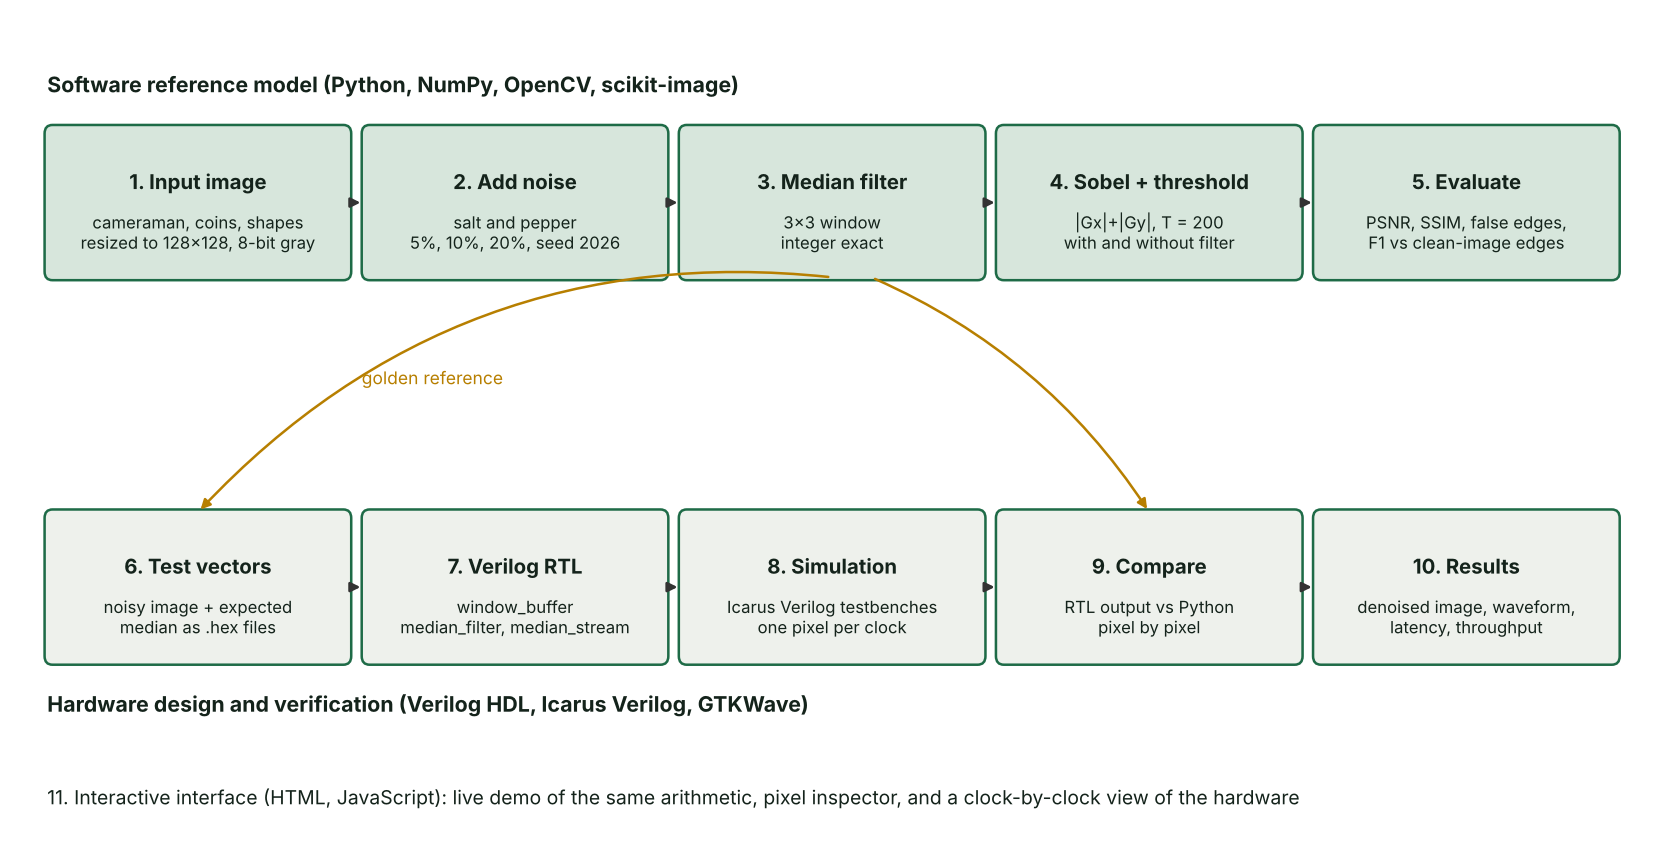
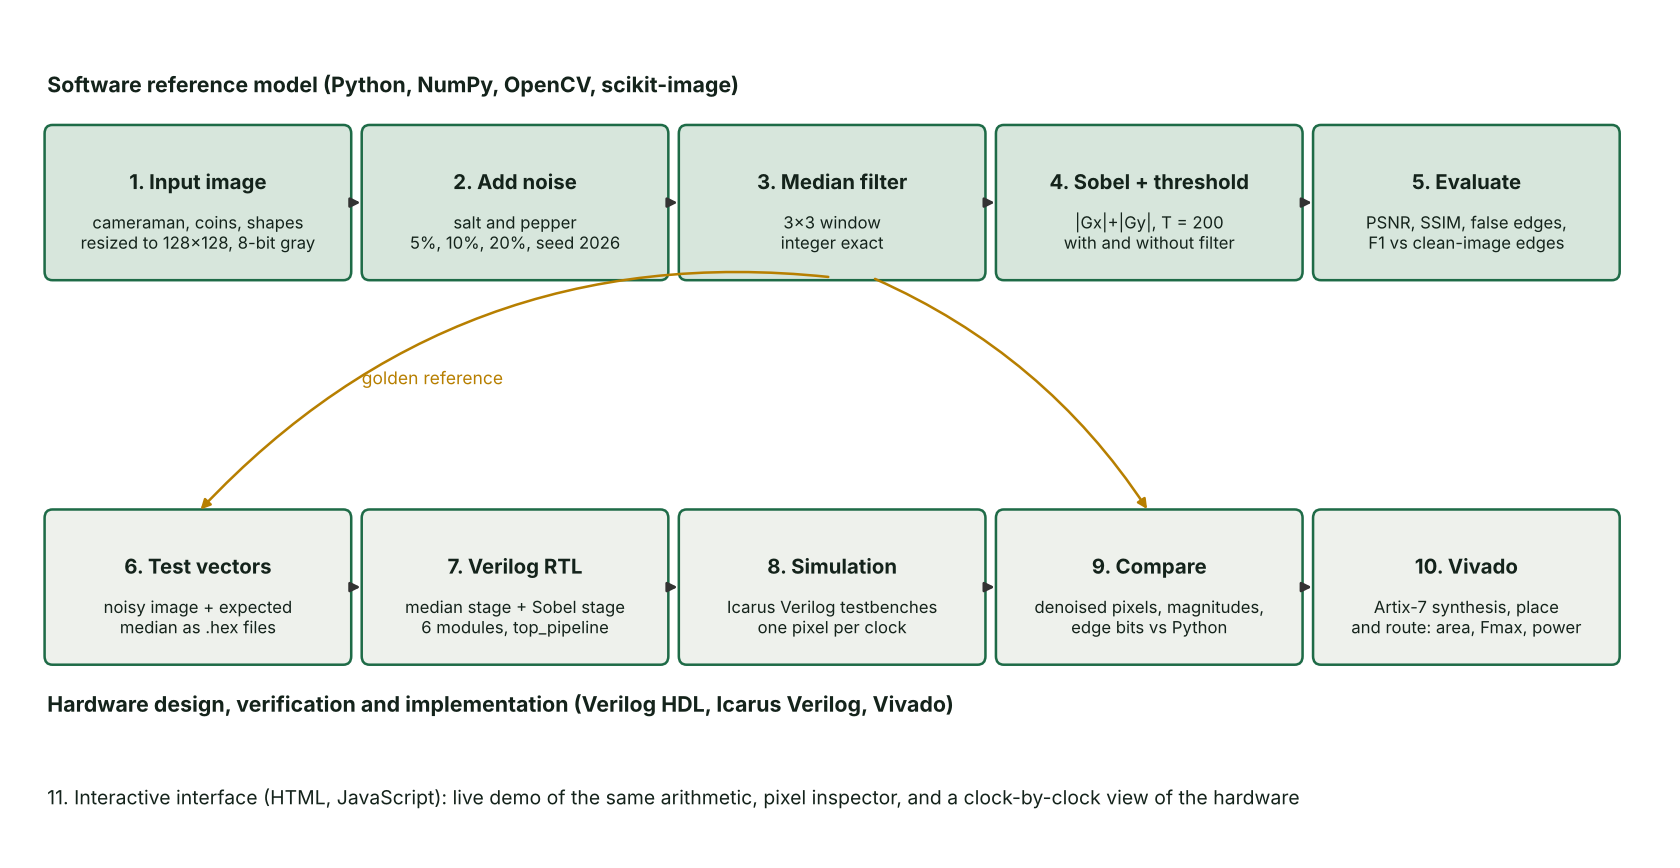
Report figures: full pipeline architecture, Sobel datapath, full-pipeline waveform
Claude-Session: https://claude.ai/code/session_01JJGAHpZk1C7UGj5k1Tqkss

diff --git a/python/draw_synopsis_figures.py b/python/draw_synopsis_figures.py
@@ -1,8 +1,13 @@
 """
-draw_synopsis_figures.py - Figures for the project synopsis (docs/figures/).
-  methodology_flow.png  : end-to-end flow of the work done
-  median_datapath.png   : 3-stage pipelined median filter datapath
-  waveform_median.png   : simulation waveform of median_stream (needs the VCD from sim/run_sim.sh)
+draw_synopsis_figures.py - Figures for the synopsis and final report (docs/figures/).
+  methodology_flow.png   : end-to-end flow of the work
+  median_datapath.png    : 3-stage pipelined median filter datapath
+  sobel_datapath.png     : 2-stage Sobel datapath and threshold
+  waveform_median.png    : simulation waveform of median_stream (Phase 1)
+  waveform_top.png       : simulation waveform of the full pipeline (top_pipeline)
+  hw_architecture.png    : median stage (Phase 1)
+  hw_architecture_full.png : complete top_pipeline (final design)
+The waveforms need the VCD files written by sim/run_sim.sh.
 Run from the project root:   python python/draw_synopsis_figures.py
 """
 import os, sys
@@ -47,16 +52,16 @@ def methodology():
     ax.text(0.2, y1 + h + 0.25, "Software reference model (Python, NumPy, OpenCV, scikit-image)", fontsize=11, weight="bold", color=INK)
     # hardware row
     hw = [("6. Test vectors", "noisy image + expected\nmedian as .hex files"),
-          ("7. Verilog RTL", "window_buffer\nmedian_filter, median_stream"),
+          ("7. Verilog RTL", "median stage + Sobel stage\n6 modules, top_pipeline"),
           ("8. Simulation", "Icarus Verilog testbenches\none pixel per clock"),
-          ("9. Compare", "RTL output vs Python\npixel by pixel"),
-          ("10. Results", "denoised image, waveform,\nlatency, throughput")]
+          ("9. Compare", "denoised pixels, magnitudes,\nedge bits vs Python"),
+          ("10. Vivado", "Artix-7 synthesis, place\nand route: area, Fmax, power")]
     y2 = 1.6
     for i, (t, s) in enumerate(hw):
         x = 0.2 + i * (w + 0.12)
         box(ax, x, y2, w, h, t, s, fc=GREY)
         if i: arrow(ax, x - 0.12, y2 + h / 2, x, y2 + h / 2)
-    ax.text(0.2, y2 - 0.35, "Hardware design and verification (Verilog HDL, Icarus Verilog, GTKWave)", fontsize=11, weight="bold", color=INK)
+    ax.text(0.2, y2 - 0.35, "Hardware design, verification and implementation (Verilog HDL, Icarus Verilog, Vivado)", fontsize=11, weight="bold", color=INK)
     # links between rows
     x3 = 0.2 + 2 * (w + 0.12) + w / 2
     ax.annotate("", xy=(0.2 + w / 2, y2 + h), xytext=(x3, y1),
@@ -109,7 +114,7 @@ def waveform():
     sys.path.insert(0, os.path.join(ROOT, "python"))
     vcd = os.path.join(ROOT, "results", "tb_median_stream.vcd")
     if not os.path.exists(vcd):
-        print("no VCD, run sim/run_sim.sh first"); return
+        print("no median_stream VCD (sim/run_sim.sh keeps only the top-level one); skipped"); return
     # minimal VCD reader for top-level testbench signals
     sigs = ["clk", "valid_in", "pix_in", "median_valid", "median_out"]
     t0, t1 = 2_560_000, 2_780_000
@@ -168,6 +173,103 @@ def hw_architecture():
     fig.tight_layout(); fig.savefig(os.path.join(OUT, "hw_architecture.png"), dpi=140); plt.close(fig)
 
 
+def read_vcd(vcd, sigs, t0, t1):
+    """Minimal VCD reader for top-level testbench signals between t0 and t1 (ps)."""
+    ids, cur, hist, depth = {}, {}, {n: [] for n in sigs}, 0
+    with open(vcd) as f:
+        for line in f:
+            s = line.split()
+            if not s: continue
+            if s[0] == "$scope": depth += 1
+            elif s[0] == "$upscope": depth -= 1
+            elif s[0] == "$var" and depth == 1 and s[4] in sigs and s[3] not in ids: ids[s[3]] = s[4]
+            elif s[0].startswith("#"):
+                t = int(s[0][1:])
+                if t > t1: break
+                if t >= t0:
+                    for n in sigs: hist[n].append((t, cur.get(n, 0)))
+            elif s[0][0] == "b" and len(s) == 2 and s[1] in ids:
+                v = s[0][1:]; cur[ids[s[1]]] = int(v, 2) if set(v) <= {"0", "1"} else 0
+            elif s[0][0] in "01xz" and s[0][1:] in ids:
+                cur[ids[s[0][1:]]] = 1 if s[0][0] == "1" else 0
+    return hist
+
+
+def waveform_top():
+    vcd = os.path.join(ROOT, "results", "tb_top_pipeline.vcd")
+    if not os.path.exists(vcd):
+        print("no VCD, run sim/run_sim.sh first"); return
+    sigs = ["clk", "valid_in", "pix_in", "median_valid", "median_out", "mag_out", "edge_valid", "edge_out"]
+    # a 26-clock window in the middle of the image where several edges are crossed
+    t0, t1 = 76_200_000, 76_460_000
+    hist = read_vcd(vcd, sigs, t0, t1)
+    fig, ax = plt.subplots(len(sigs), 1, figsize=(12, 6.2), sharex=True)
+    for a, n in zip(ax, sigs):
+        pts = hist[n]; ts = [(p[0] - t0) / 1000 for p in pts]; vs = [p[1] for p in pts]
+        if n in ("pix_in", "median_out"):
+            a.step(ts, vs, where="post", color=GREEN); a.set_ylim(-15, 270)
+        elif n == "mag_out":
+            a.step(ts, vs, where="post", color=GOLD); a.axhline(200, color="#999", lw=0.8, ls="--")
+            a.text(-12, 215, "T = 200", fontsize=8, ha="right", color="#777")
+        else:
+            a.step(ts, vs, where="post", color=INK if n == "clk" else GREEN); a.set_ylim(-0.3, 1.3); a.set_yticks([])
+        a.set_ylabel(n, rotation=0, ha="right", va="center", fontsize=9.5)
+        a.spines[["top", "right"]].set_visible(False)
+    ax[-1].set_xlabel("time (ns) from 76.20 us; clock period 10 ns (100 MHz in simulation)")
+    fig.suptitle("Simulation of top_pipeline: edge_out goes high where the Sobel magnitude reaches the threshold", fontsize=11)
+    fig.tight_layout(); fig.savefig(os.path.join(OUT, "waveform_top.png"), dpi=140); plt.close(fig)
+
+
+def sobel_datapath():
+    fig, ax = plt.subplots(figsize=(12.5, 4.6))
+    box(ax, 0.1, 1.2, 1.7, 2.0, "3x3 window", "w0 .. w8\nfrom second\nwindow_buffer", fc="#ffffff", ec="#777")
+    box(ax, 2.4, 2.45, 3.2, 1.05, "Gx = (w2+2w5+w8) - (w0+2w3+w6)", "adders; x2 = 1-bit left shift", fs=9.5)
+    box(ax, 2.4, 0.95, 3.2, 1.05, "Gy = (w6+2w7+w8) - (w0+2w1+w2)", "11-bit signed, -1020 .. +1020", fs=9.5)
+    box(ax, 6.3, 1.45, 2.4, 1.5, "|Gx| + |Gy|", "two's-complement abs\n+ 11-bit adder", fs=10.5)
+    box(ax, 9.3, 1.45, 1.6, 1.5, "mag >= T", "comparator\nT is an input", fs=10.5, fc="#ffffff")
+    box(ax, 11.3, 1.6, 1.1, 1.2, "edge", "1 bit\n+ valid", fc="#f6e6b8", ec=GOLD, fs=10)
+    arrow(ax, 1.8, 2.6, 2.4, 2.95); arrow(ax, 1.8, 1.8, 2.4, 1.45)
+    arrow(ax, 5.6, 2.95, 6.3, 2.4); arrow(ax, 5.6, 1.45, 6.3, 2.0)
+    arrow(ax, 8.7, 2.2, 9.3, 2.2); arrow(ax, 10.9, 2.2, 11.3, 2.2)
+    for x, lab in [(6.0, "stage 1 regs"), (9.0, "stage 2 regs"), (11.1, "threshold reg")]:
+        ax.plot([x, x], [0.55, 3.75], ls=(0, (4, 3)), color=GOLD, lw=1.2)
+        ax.text(x, 3.85, lab, ha="center", fontsize=8.5, color=GOLD)
+    ax.text(0.1, 0.1, "sobel_filter.v: 2 clocks, 8 adders/subtractors, no multipliers.  threshold.v: 1 clock.  "
+            "Largest possible magnitude for 8-bit pixels: 1530.", fontsize=9.5, color=INK)
+    ax.set_xlim(0, 12.6); ax.set_ylim(0, 4.1); ax.axis("off")
+    fig.tight_layout(); fig.savefig(os.path.join(OUT, "sobel_datapath.png"), dpi=140); plt.close(fig)
+
+
+def hw_architecture_full():
+    fig, ax = plt.subplots(figsize=(13, 4.4))
+    ax.add_patch(FancyBboxPatch((1.95, 0.55), 10.0, 3.15, boxstyle="round,pad=0.02,rounding_size=0.08",
+                                fc="none", ec=GREEN, lw=1.2, ls=(0, (5, 3))))
+    ax.text(2.1, 3.42, "top_pipeline.v", fontsize=10.5, color=GREEN, weight="bold")
+    box(ax, 0.05, 1.55, 1.6, 1.1, "Pixel in", "8-bit + valid\n1 pixel / clock", fc="#ffffff", ec="#777", fs=10)
+    ax.add_patch(FancyBboxPatch((2.15, 0.8), 4.2, 2.4, boxstyle="round,pad=0.02,rounding_size=0.06",
+                                fc="none", ec="#7a857e", lw=1.0))
+    ax.text(4.25, 2.98, "median_stream.v (Phase 1)", ha="center", fontsize=9, color="#55605a")
+    box(ax, 2.3, 1.15, 1.8, 1.5, "window_buffer", "2 line buffers\n128 px, 1 clk", fs=9.5)
+    box(ax, 4.35, 1.15, 1.85, 1.5, "median_filter", "row sort, combine\nmed3, 3 clk", fs=9.5)
+    box(ax, 6.75, 1.15, 1.8, 1.5, "window_buffer", "on denoised px\n126 px, 1 clk", fc="#dfe7f2", ec="#2e5a88", fs=9.5)
+    box(ax, 8.8, 1.15, 1.5, 1.5, "sobel_filter", "|Gx|+|Gy|\n2 clk", fc="#dfe7f2", ec="#2e5a88", fs=9.5)
+    box(ax, 10.5, 1.15, 1.3, 1.5, "threshold", "mag >= thr\n1 clk", fc="#dfe7f2", ec="#2e5a88", fs=9.5)
+    box(ax, 12.2, 1.55, 1.4, 1.1, "Edge out", "1 bit + valid\n124x124", fc="#f6e6b8", ec=GOLD, fs=10)
+    for x1, x2 in [(1.65, 2.3), (4.1, 4.35), (6.2, 6.75), (8.55, 8.8), (10.3, 10.5), (11.8, 12.2)]:
+        arrow(ax, x1, 1.9, x2, 1.9)
+    ax.annotate("", xy=(6.48, 0.2), xytext=(6.48, 1.9), arrowprops=dict(arrowstyle="-|>", lw=1.2, color=GREEN))
+    ax.text(6.6, 0.25, "median_out (126x126)", fontsize=8.5, color=GREEN)
+    ax.annotate("", xy=(10.4, 0.2), xytext=(10.4, 1.15), arrowprops=dict(arrowstyle="-|>", lw=1.0, color="#2e5a88"))
+    ax.text(10.5, 0.25, "mag_out", fontsize=8.5, color="#2e5a88")
+    ax.annotate("", xy=(11.15, 2.65), xytext=(11.15, 3.95), arrowprops=dict(arrowstyle="-|>", lw=1.0, color="#333"))
+    ax.text(11.25, 3.8, "thr[10:0]", fontsize=8.5)
+    ax.text(0.05, -0.35, "8 register stages in total (1 + 3 + 1 + 2 + 1). Throughput 1 pixel per clock. Green: Phase 1 median stage. Blue: Phase 2 Sobel stage.",
+            fontsize=9.5, color=INK)
+    ax.set_xlim(0, 13.7); ax.set_ylim(-0.5, 4.1); ax.axis("off")
+    fig.tight_layout(); fig.savefig(os.path.join(OUT, "hw_architecture_full.png"), dpi=140); plt.close(fig)
+
+
 if __name__ == "__main__":
     methodology(); datapath(); waveform(); hw_architecture()
+    waveform_top(); sobel_datapath(); hw_architecture_full()
     print("figures written to docs/figures/")
